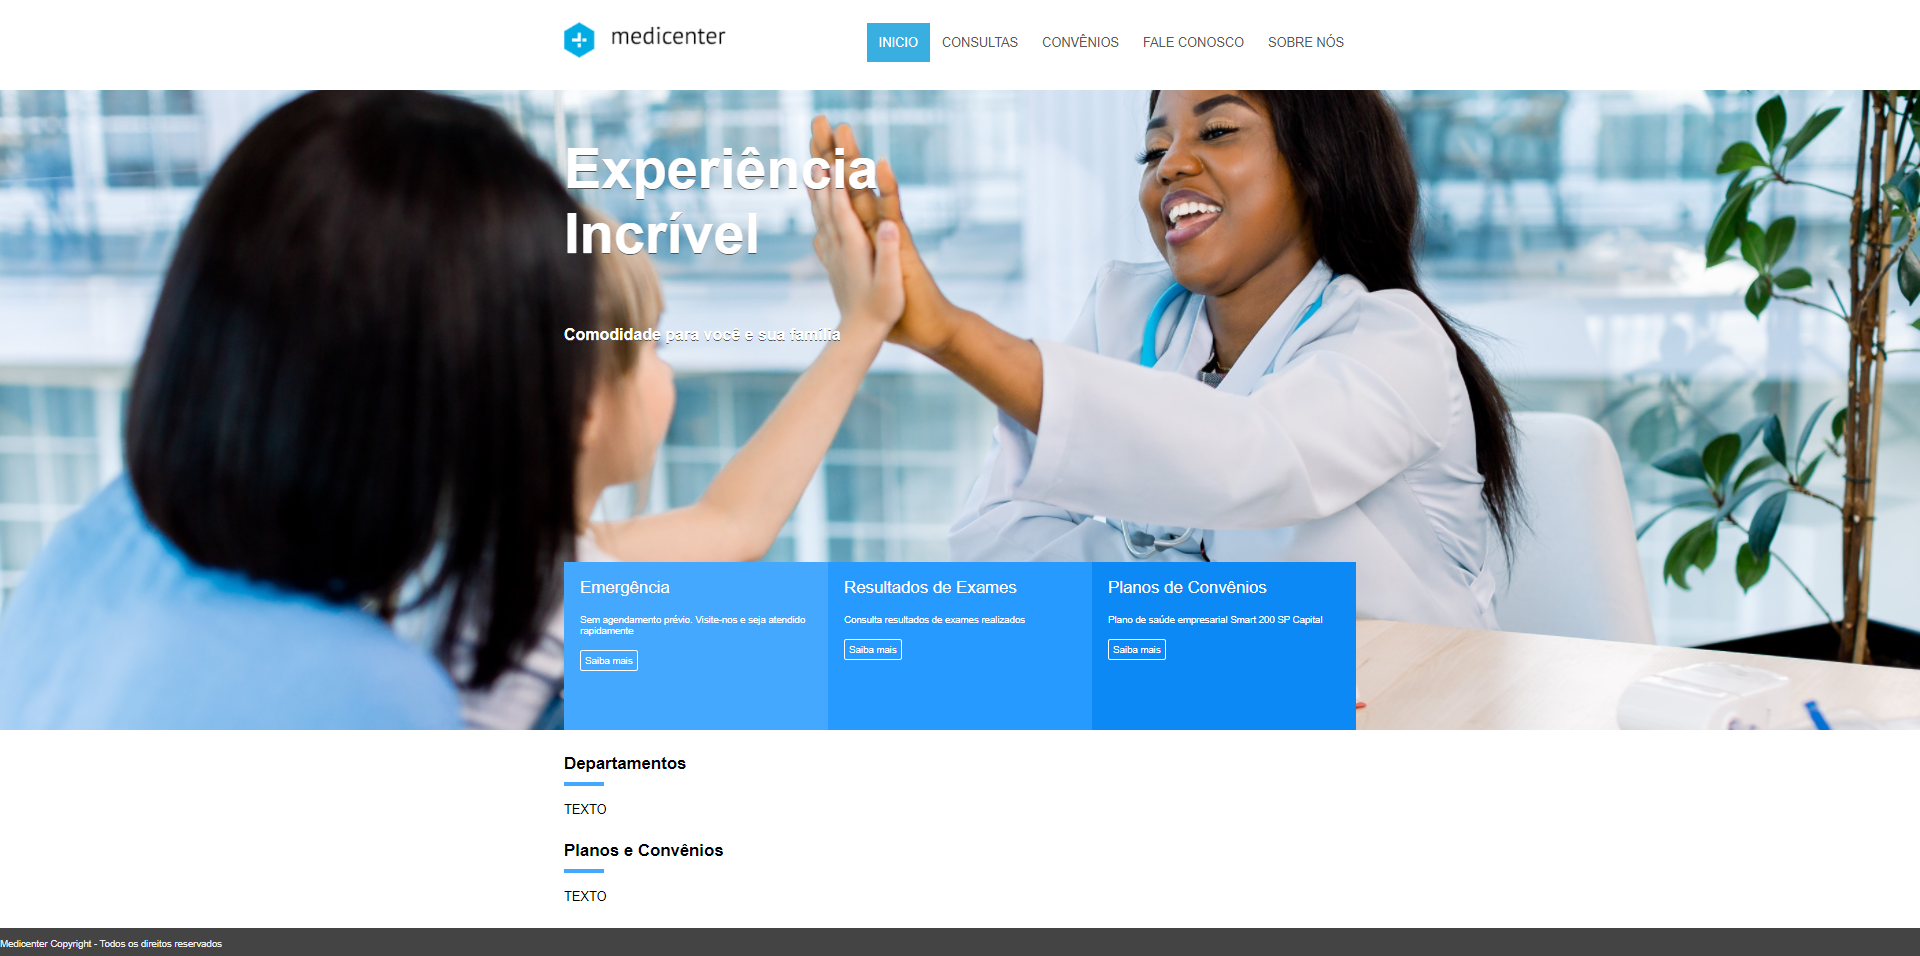
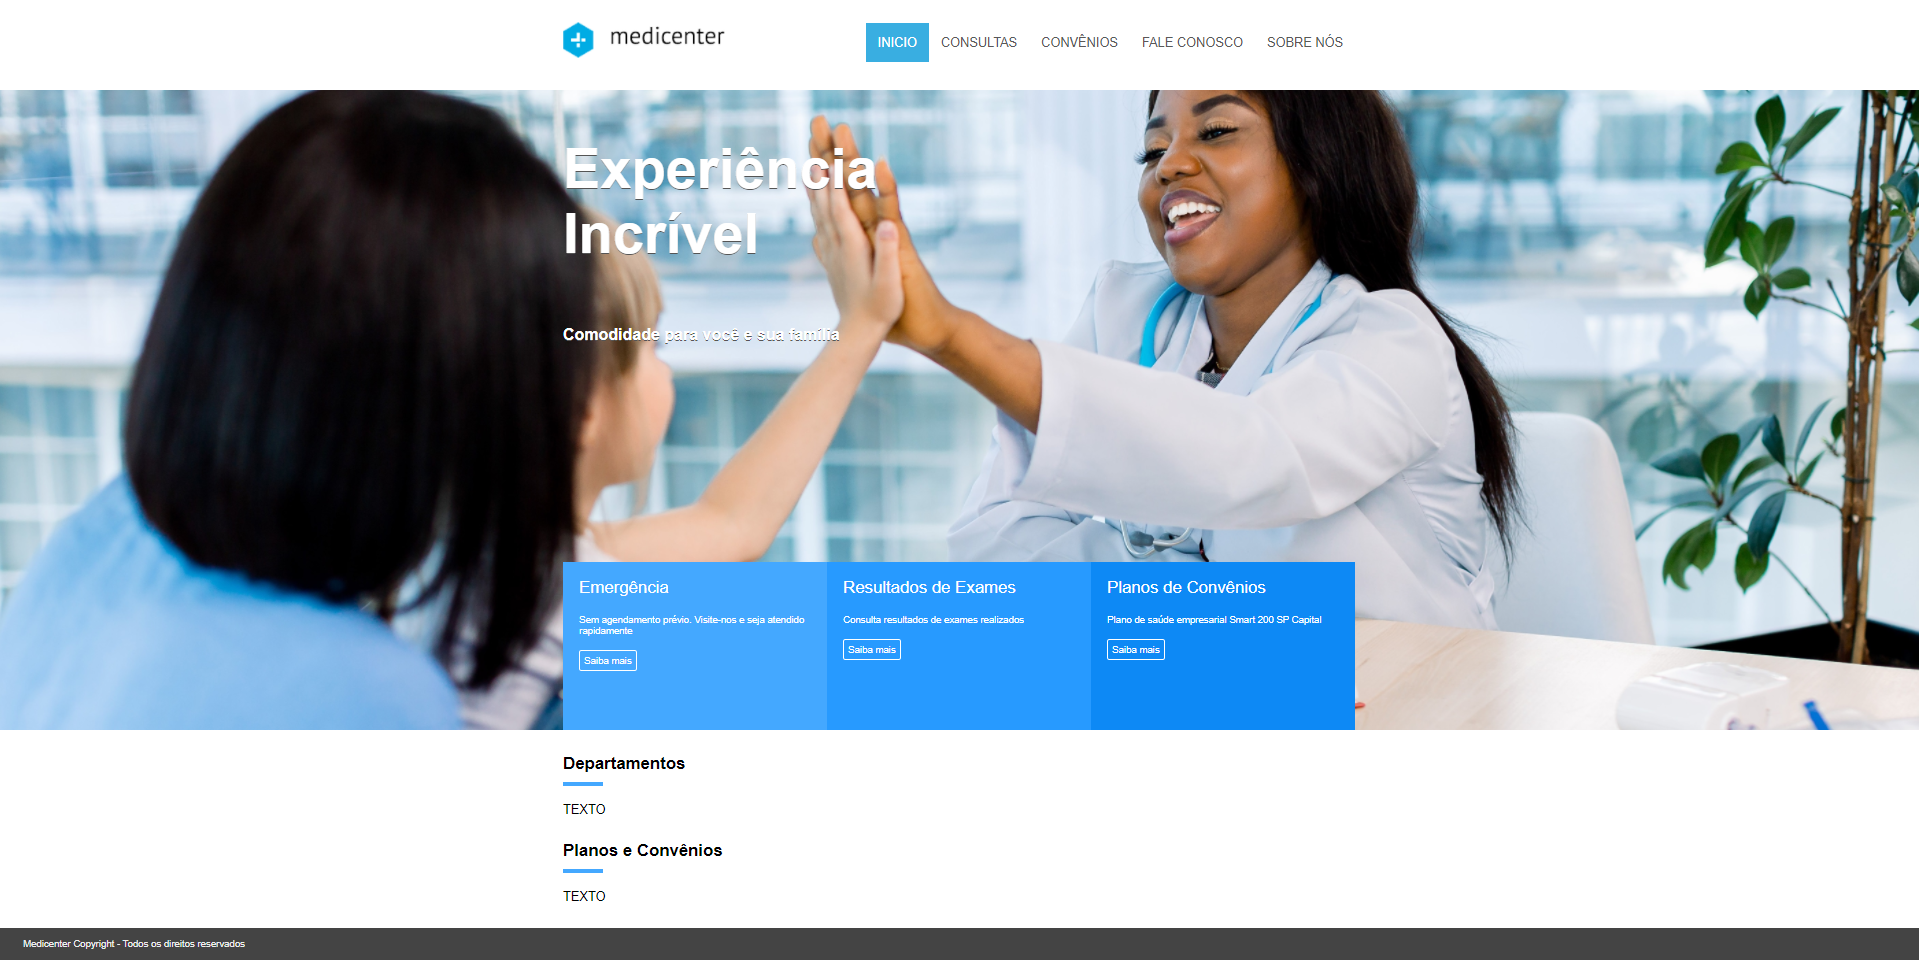
finished

diff --git a/assets/css/style.css b/assets/css/style.css
@@ -148,6 +148,7 @@ nav .active a, nav a:hover{
     color:#EEEEEE;
     font-size:12px;
     margin-top:30px;
+    padding-left:30px;
 }
 
 @media (max-width:800px){

diff --git a/README.md b/README.md
@@ -1,0 +1,3 @@
+### Site feito com semântica HTML e Flexbox
+
+<img src="assets/images/print-site.png">
